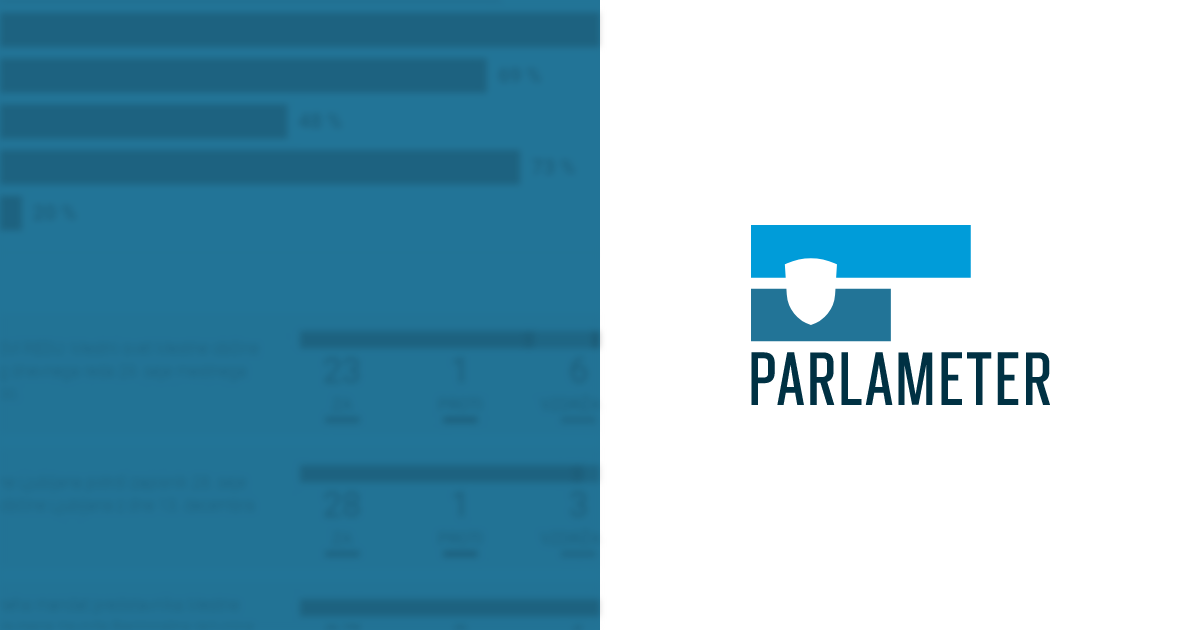
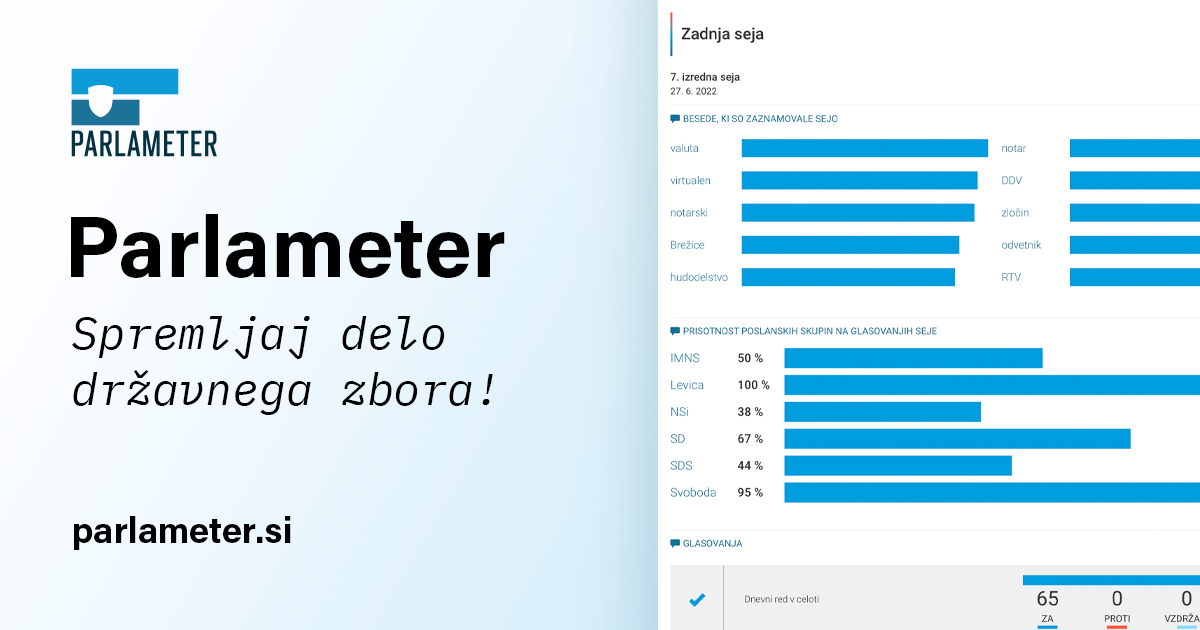
add new default slovenian og image, cache bust all generated images

diff --git a/parlasite/server/utils.js b/parlasite/server/utils.js
@@ -153,7 +153,7 @@ function i18n(lang) {
 
 function getOgImageUrl(type, params = {}) {
   const url = `${urls.metaImages}/${type}`;
-  const query = stringifyParams({ theme: locale, ...params });
+  const query = stringifyParams({ theme: locale, ...params, cache: 1 });
   return `${url}${query}`;
 }
 
